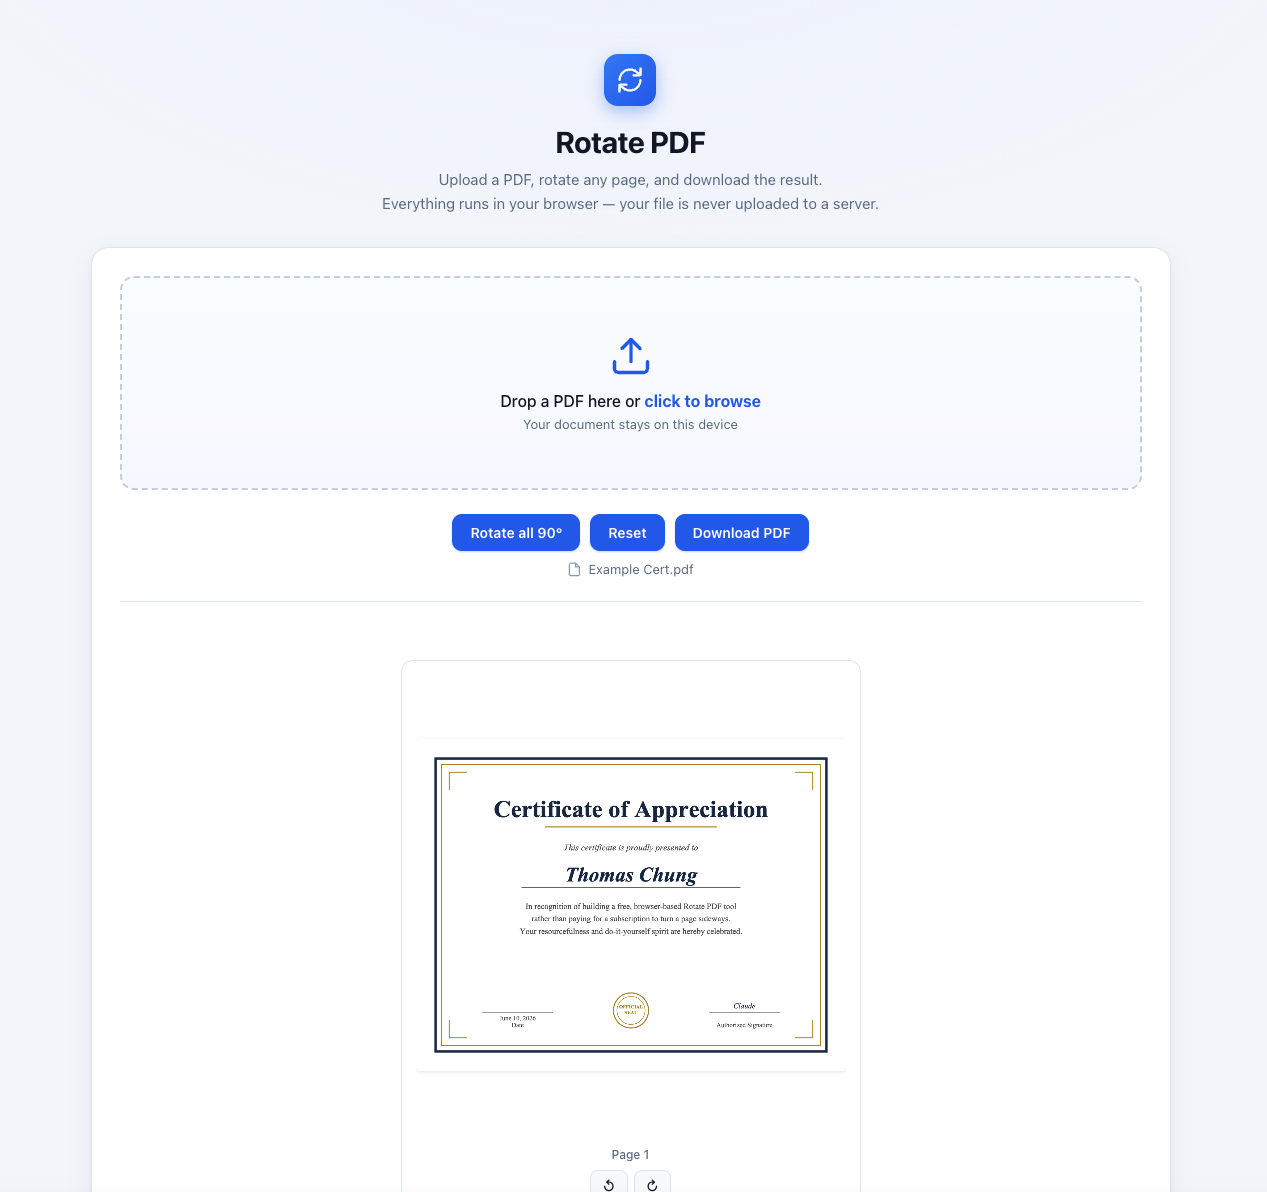
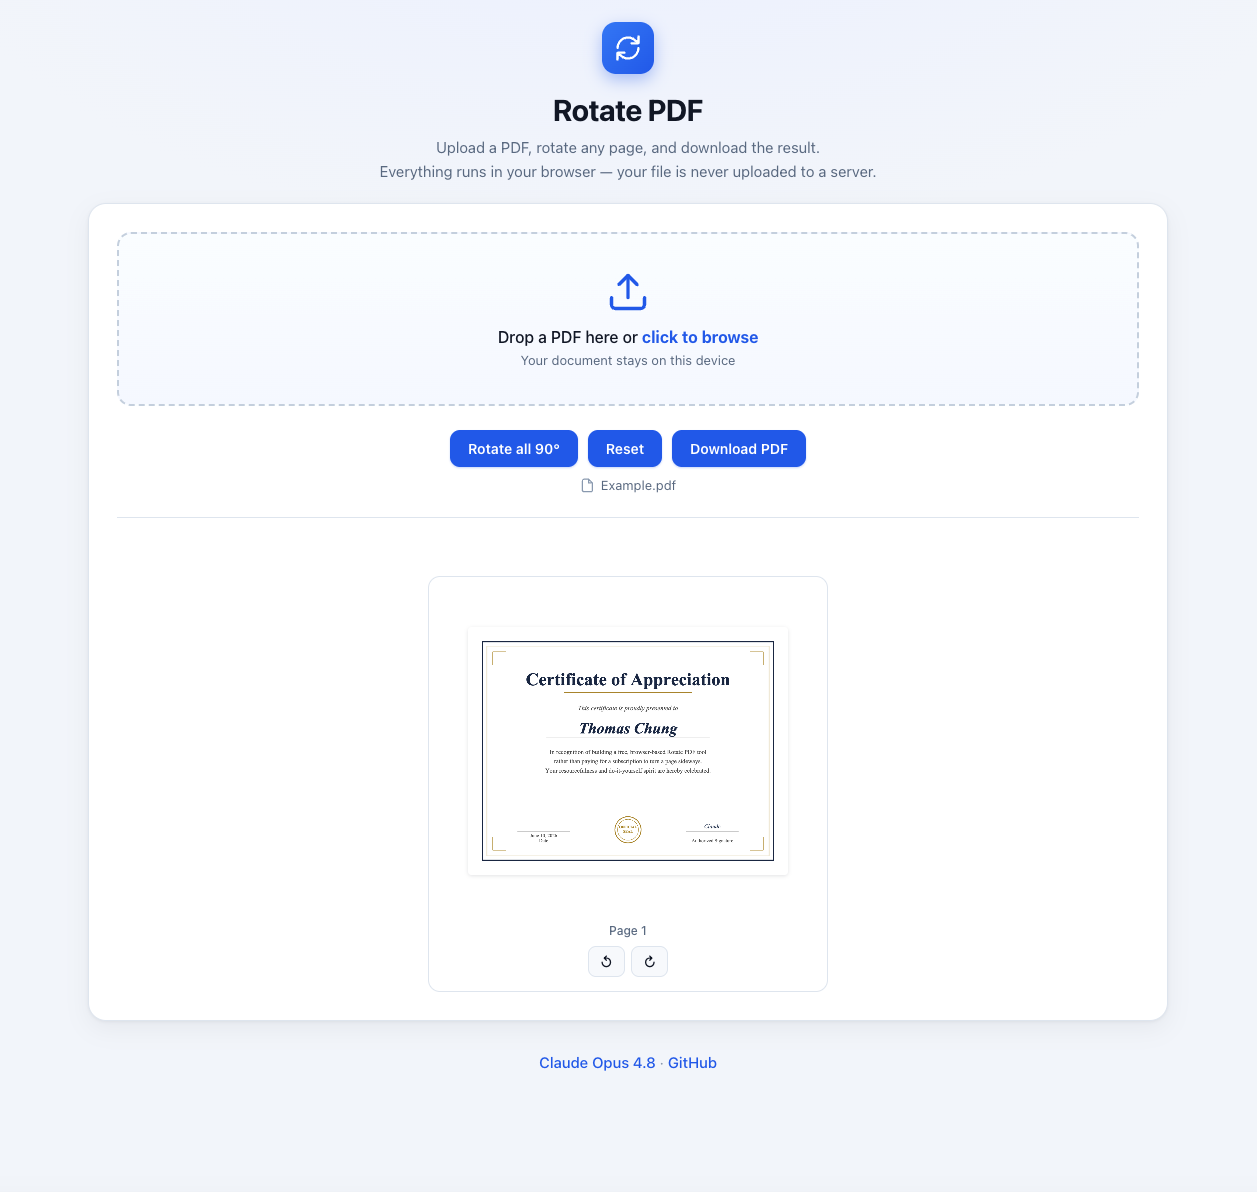
Update before/after screenshots to current UI

diff --git a/README.md b/README.md
@@ -5,7 +5,7 @@ Live at: https://ai.tchung.org/rotate-pdf/
 
 | Before | After |
 |:------:|:-----:|
-| ![Page sideways](docs/cert-before.png) | ![Page upright](docs/cert-after.png) |
+| ![Page sideways](docs/cert-before.png?v=2) | ![Page upright](docs/cert-after.png?v=2) |
 
 ## Why
 Adobe quietly paywalled page rotation in the free Acrobat Reader in late 2021.
